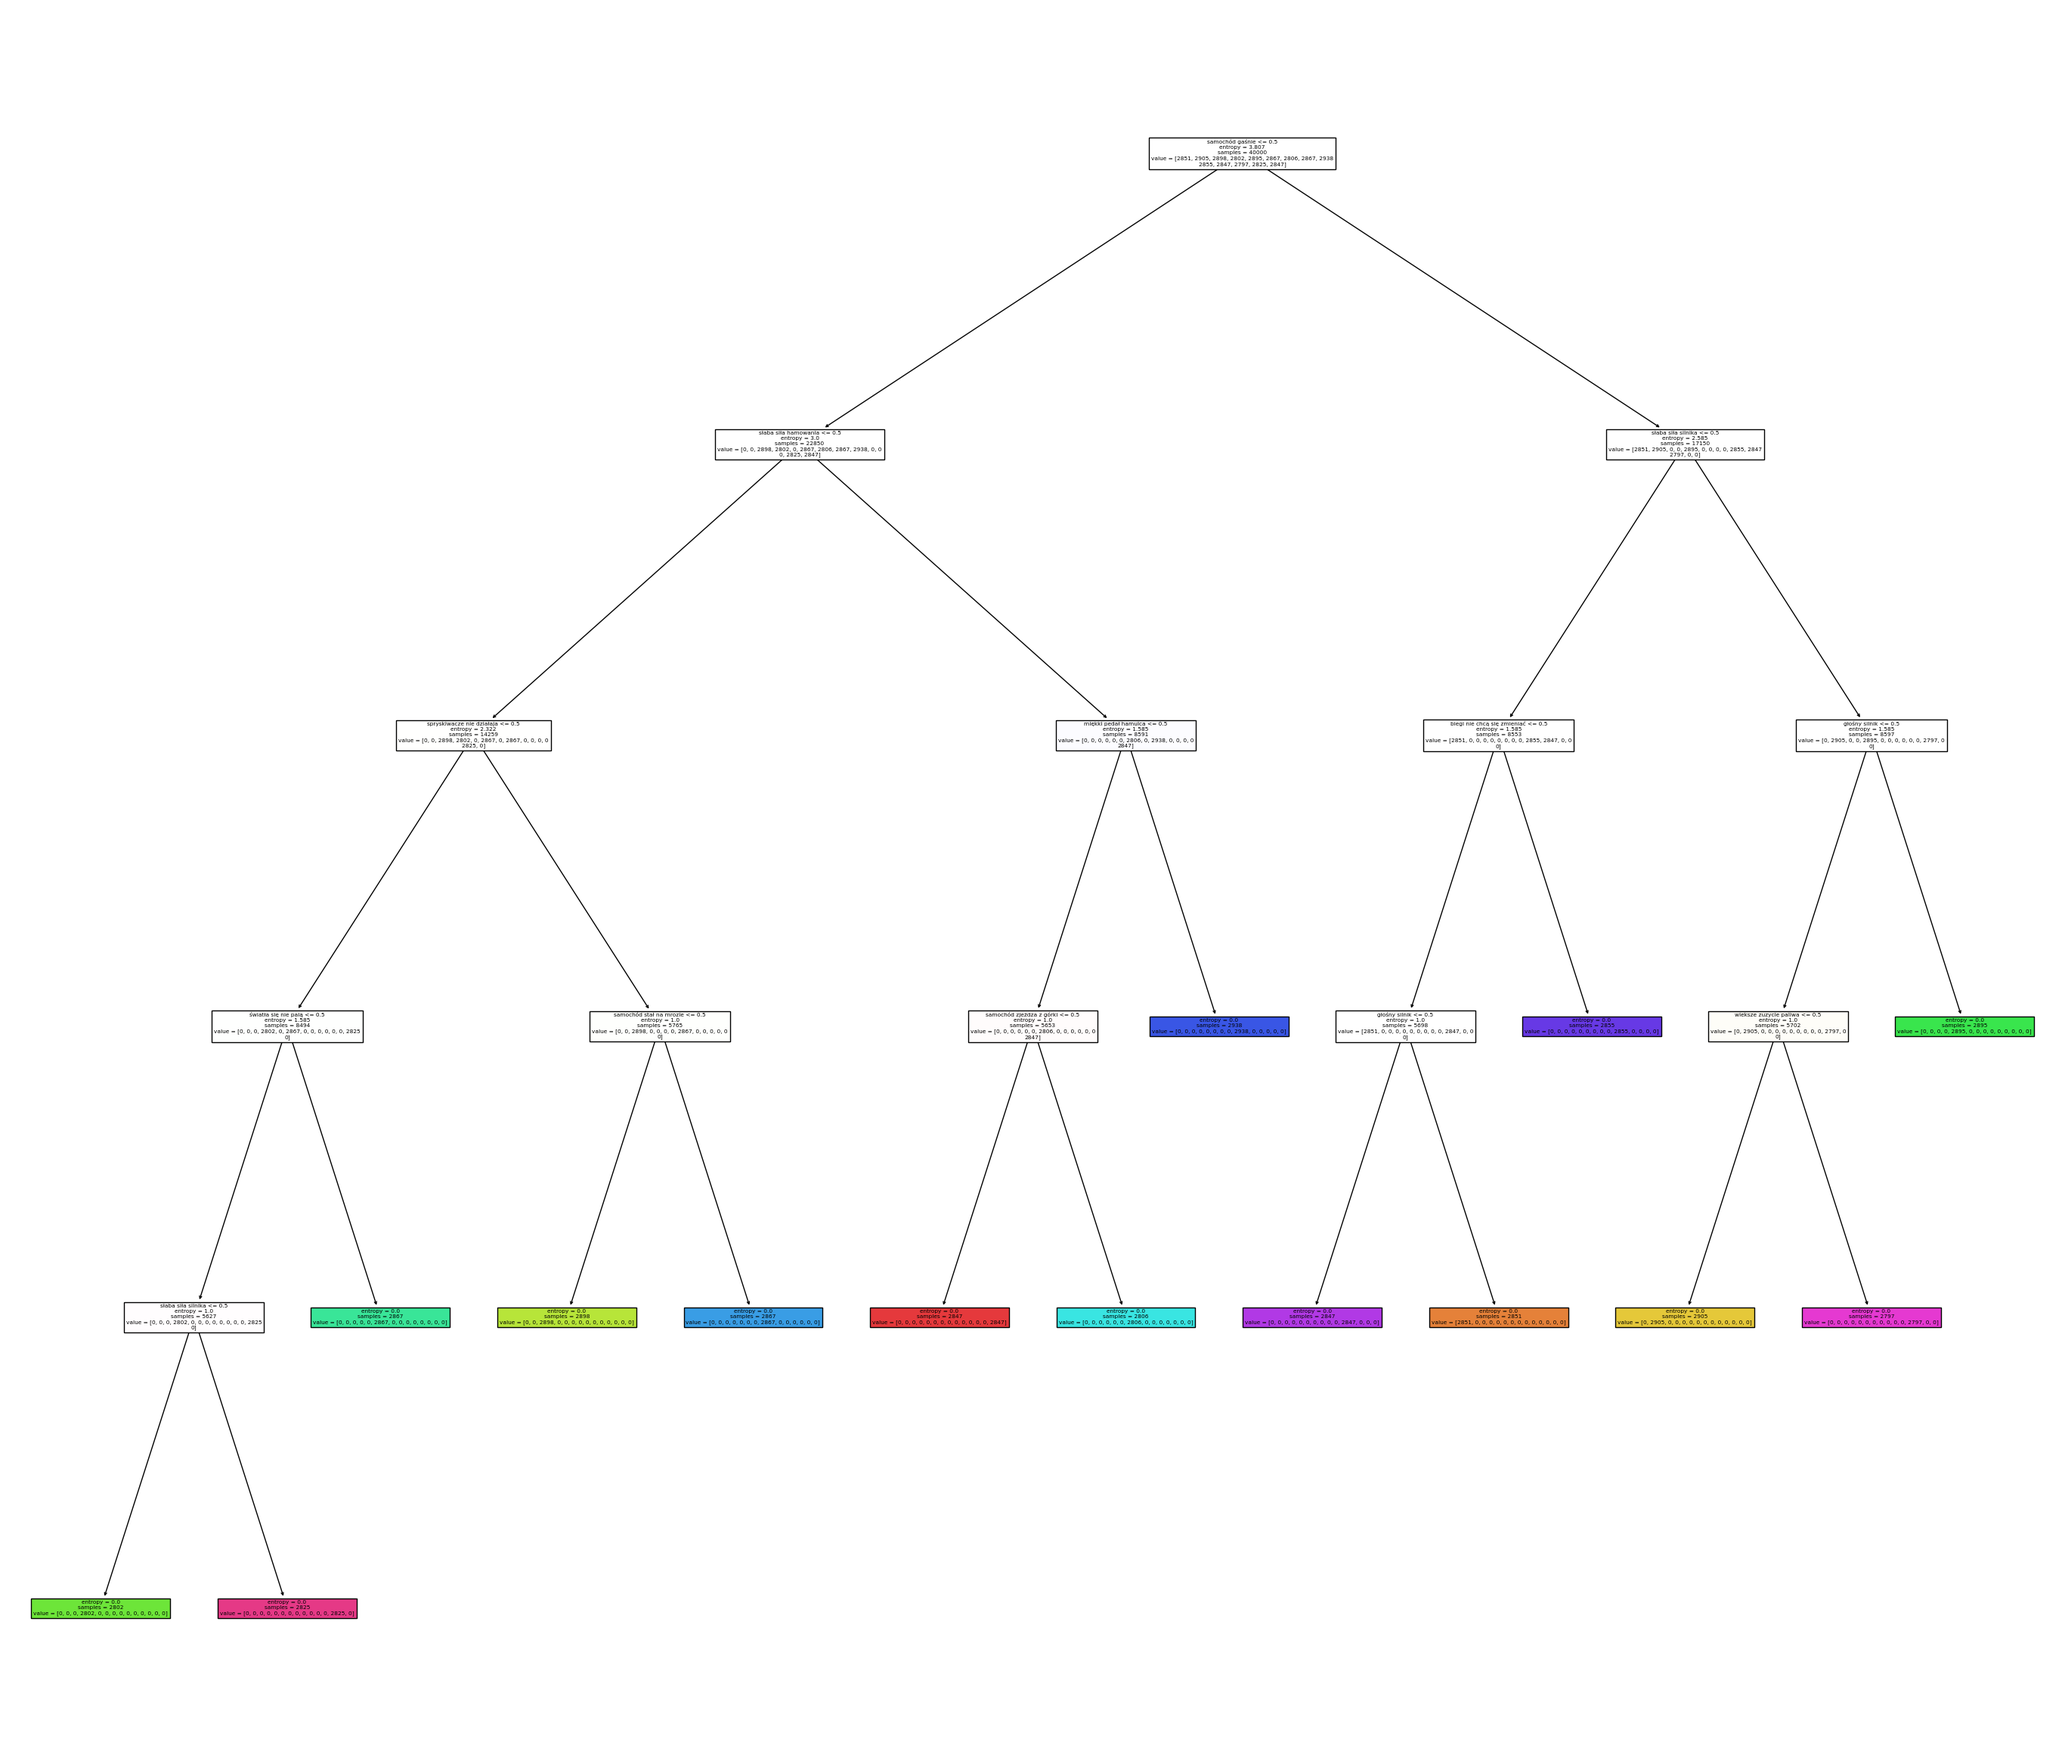
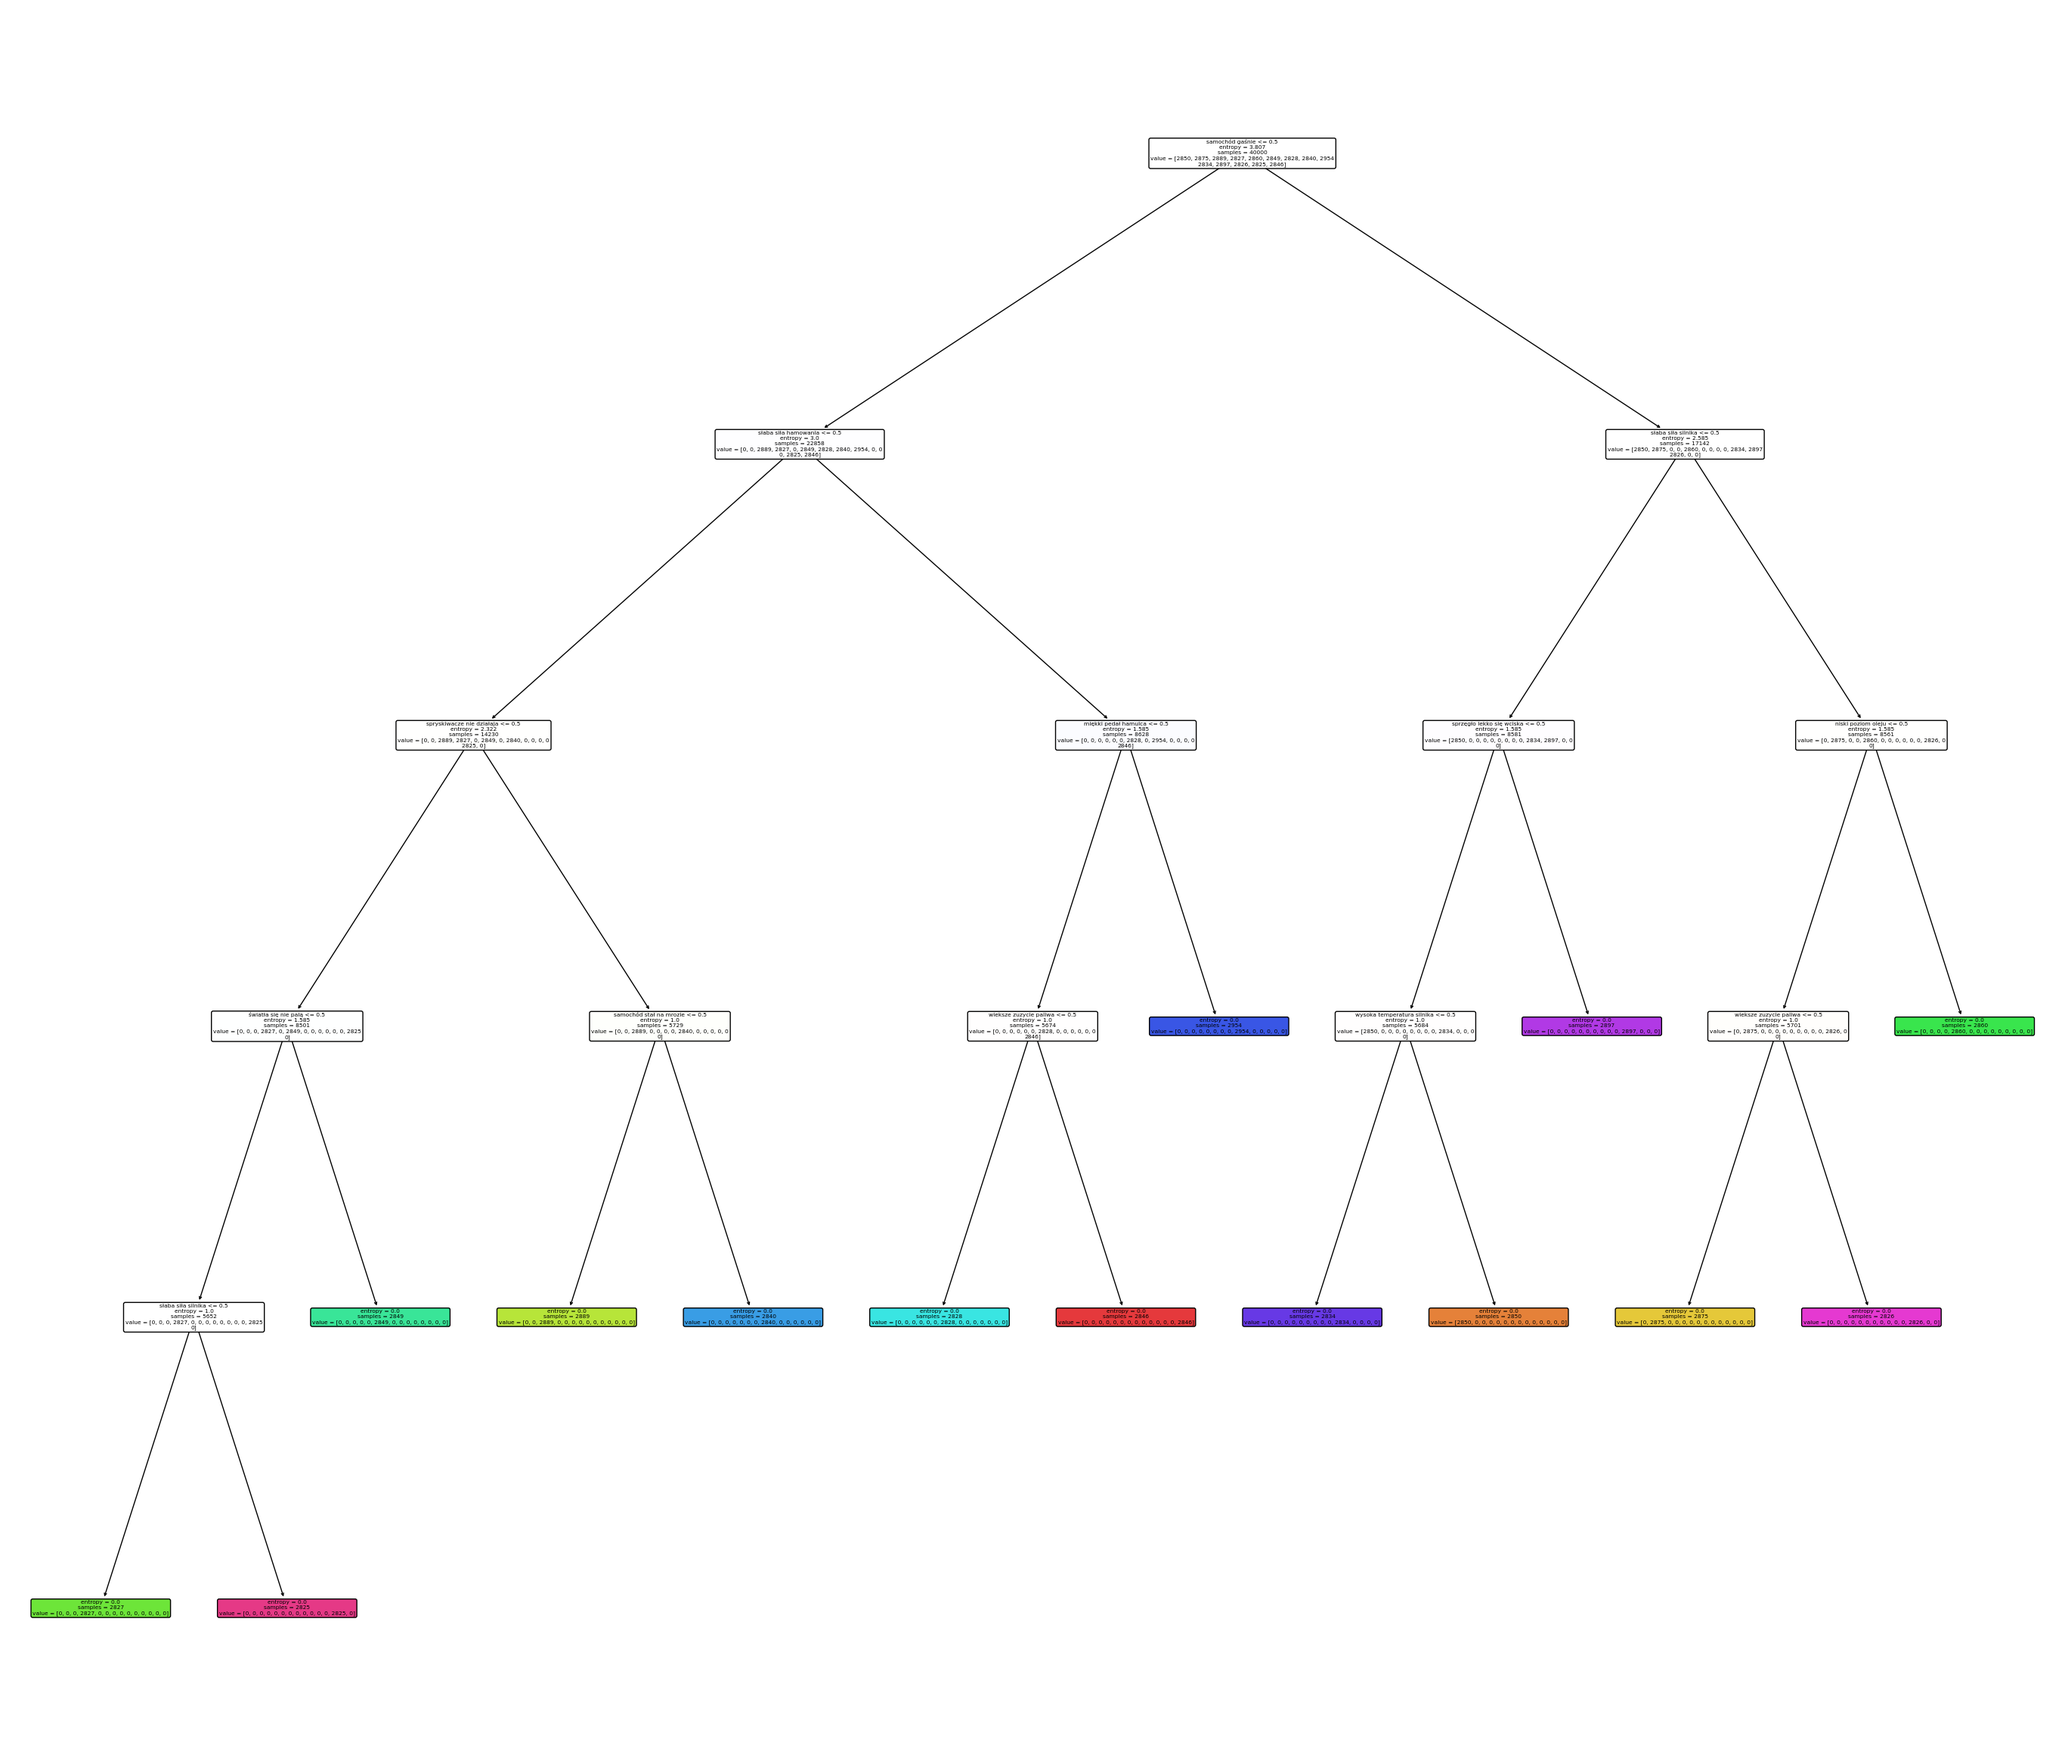
jakieś małe zmiany w wizualizacji

diff --git a/CarExpert.App/CarExpert.App/CarExpert.App.py b/CarExpert.App/CarExpert.App/CarExpert.App.py
@@ -37,7 +37,7 @@ print(classification_report(y_test, y_pred))
 print()
 
 fig = plt.figure(figsize=(35, 30))
-_ = tree.plot_tree(classifier, feature_names=l1, filled=True)
+_ = tree.plot_tree(classifier, feature_names=l1, filled=True, rounded=True)
 plt.savefig('tree.png', bbox_inches='tight')
 
 
@@ -51,6 +51,11 @@ print(confusion_matrix(y_test, y_pred))
 print()
 print(classification_report(y_test, y_pred))
 print()
+
+sampleTree = classifier_rf.estimators_[5]
+fig = plt.figure(figsize=(35, 30))
+_ = tree.plot_tree(sampleTree, feature_names=l1, filled=True, rounded=True)
+plt.savefig('branch.png', bbox_inches='tight')
 
 
 
